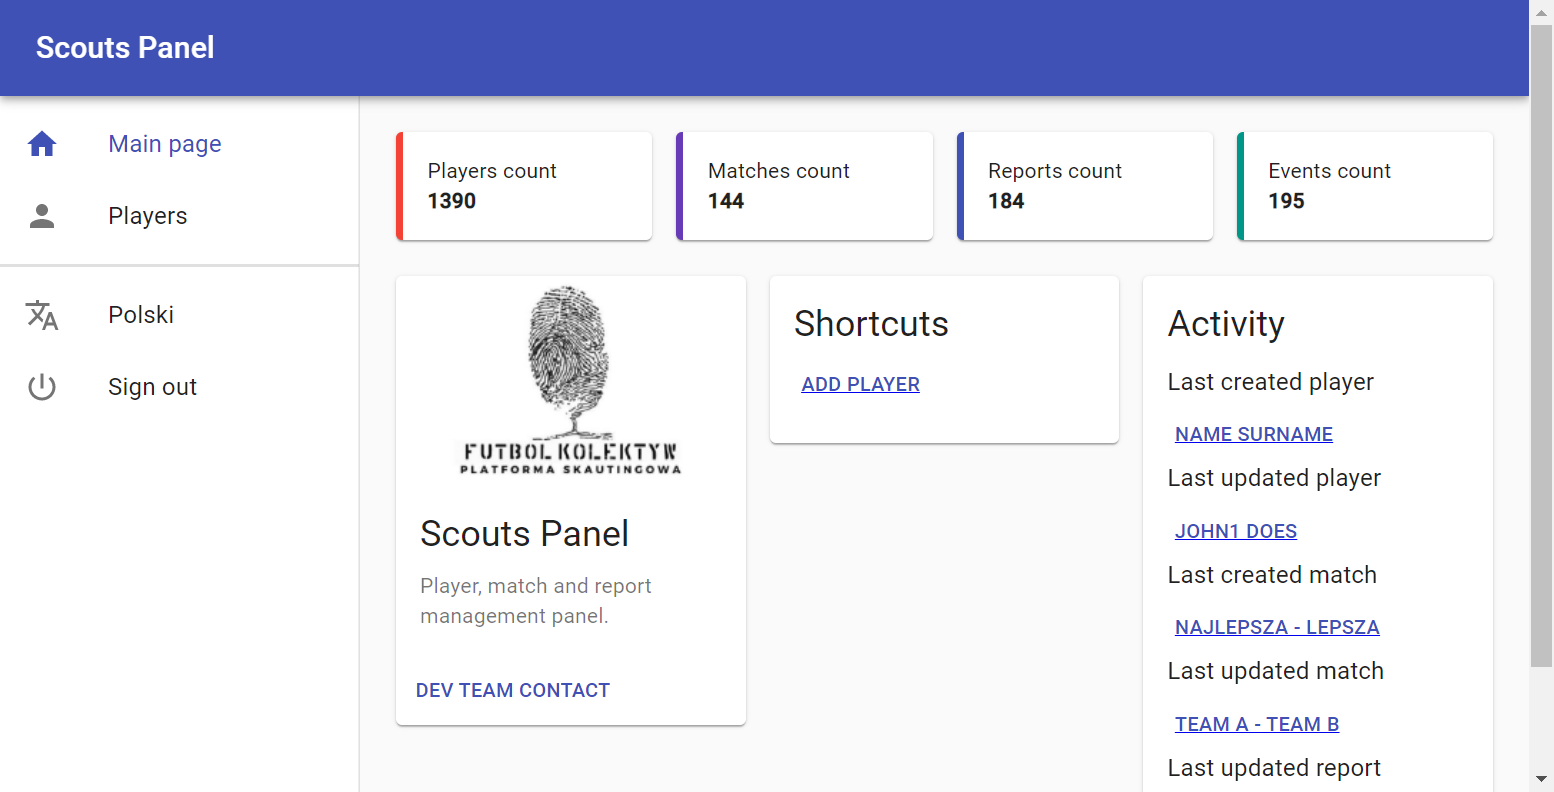
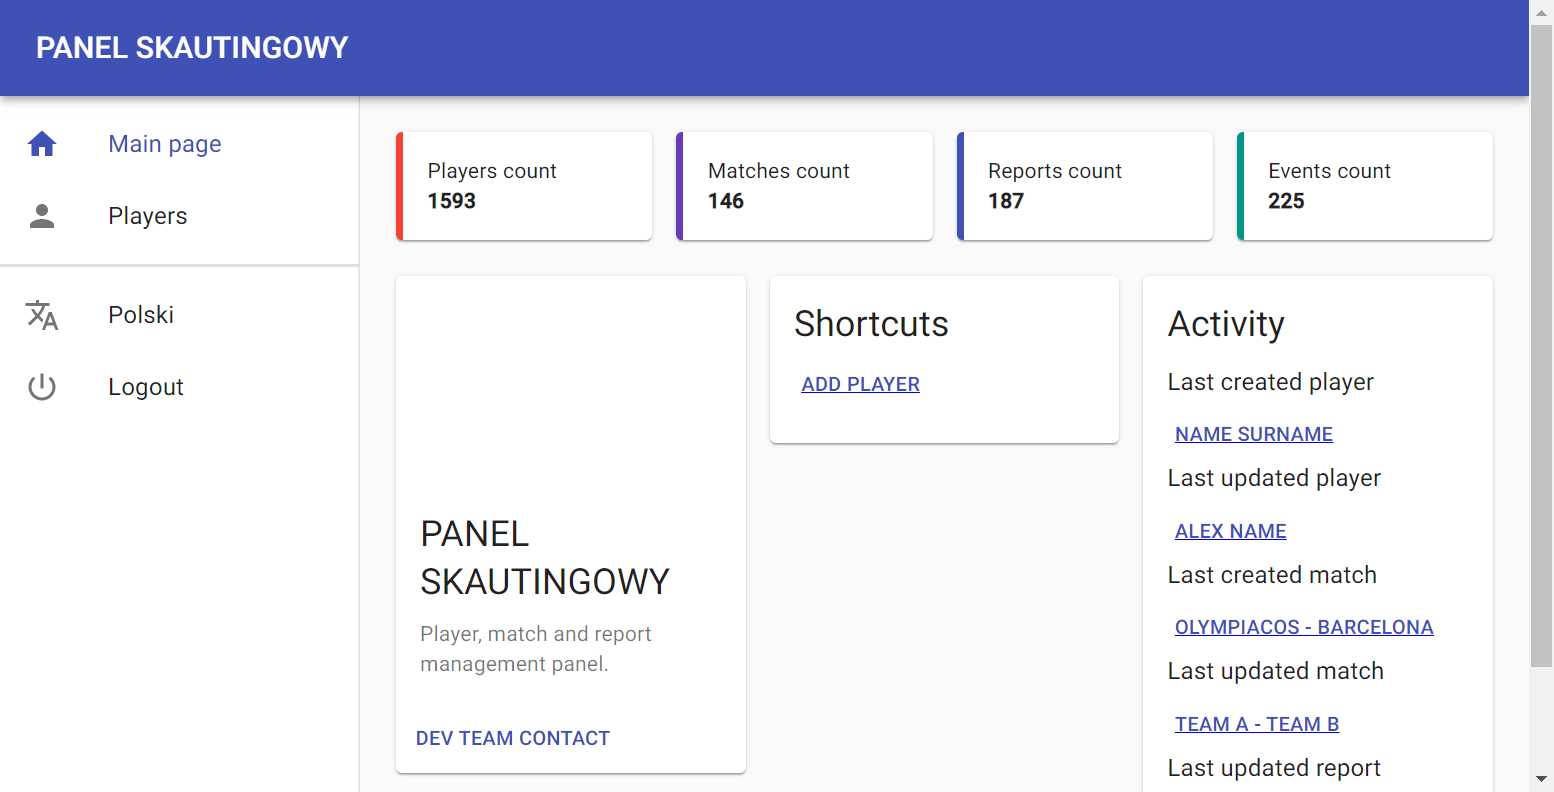
Minor changes
Minor changes to the code due to new website pass

diff --git a/log.html b/log.html
@@ -1803,25 +1803,25 @@ function stopPropagation(event) {
 window.output = {};
 </script>
 <script type="text/javascript">
-window.output["suite"] = [1,2,3,4,[],[1,0,58560],[],[[5,0,0,[],[1,404,12046],[[0,6,0,0,0,0,0,0,[1,405,3906],[[0,7,8,0,9,10,0,0,[1,405,3892],[[406,2,11]]],[0,12,8,0,13,14,0,0,[1,4298,12],[[4310,2,15]]]]],[0,16,0,0,0,0,0,0,[1,4311,270],[[0,17,8,0,18,19,0,0,[1,4311,269],[[4312,2,20]]]]],[0,21,0,0,0,0,0,0,[1,4581,176],[[0,17,8,0,18,22,0,0,[1,4581,176],[[4582,2,23]]]]],[0,24,0,0,0,0,0,0,[1,4758,75],[[0,25,8,0,26,27,0,0,[1,4759,74],[[4759,2,28]]]]],[0,29,0,0,0,0,0,0,[1,4834,4852],[[0,30,8,0,31,32,0,0,[1,4835,4497],[]],[0,12,8,0,13,33,0,0,[1,9332,15],[[9347,2,34]]],[0,35,8,0,36,37,0,0,[1,9348,338],[[9686,2,38]]]]],[2,39,8,0,40,0,0,0,[1,9688,2761],[]]]],[41,0,0,[],[1,12456,10949],[[0,6,0,0,0,0,0,0,[1,12457,3737],[[0,7,8,0,9,10,0,0,[1,12457,3722],[[12458,2,11]]],[0,12,8,0,13,14,0,0,[1,16179,15],[[16194,2,15]]]]],[0,16,0,0,0,0,0,0,[1,16195,289],[[0,17,8,0,18,19,0,0,[1,16195,288],[[16196,2,20]]]]],[0,21,0,0,0,0,0,0,[1,16485,170],[[0,17,8,0,18,22,0,0,[1,16485,170],[[16487,2,23]]]]],[0,24,0,0,0,0,0,0,[1,16656,65],[[0,25,8,0,26,27,0,0,[1,16656,65],[[16657,2,28]]]]],[0,42,0,0,0,0,0,0,[1,16722,4003],[[0,30,8,0,31,43,0,0,[1,16722,3888],[]],[0,25,8,0,26,44,0,0,[1,20610,115],[[20611,2,45]]]]],[0,46,0,0,0,0,0,0,[1,20726,191],[[0,30,8,0,31,47,0,0,[1,20727,40],[]],[0,12,8,0,13,14,0,0,[1,20767,6],[[20773,2,15]]],[0,35,8,0,36,48,0,0,[1,20773,144],[[20917,2,49]]]]],[2,39,8,0,40,0,0,0,[1,20918,2486],[]]]],[50,0,0,[],[1,23410,15019],[[0,6,0,0,0,0,0,0,[1,23411,4167],[[0,7,8,0,9,10,0,0,[1,23411,4121],[[23412,2,11]]],[0,12,8,0,13,14,0,0,[1,27533,45],[[27578,2,15]]]]],[0,16,0,0,0,0,0,0,[1,27580,271],[[0,17,8,0,18,19,0,0,[1,27580,271],[[27581,2,20]]]]],[0,21,0,0,0,0,0,0,[1,27854,207],[[0,17,8,0,18,22,0,0,[1,27855,205],[[27856,2,23]]]]],[0,24,0,0,0,0,0,0,[1,28061,85],[[0,25,8,0,26,27,0,0,[1,28062,84],[[28062,2,28]]]]],[0,51,0,0,0,0,0,0,[1,28146,4480],[[0,30,8,0,31,52,0,0,[1,28147,4416],[]],[0,25,8,0,26,53,0,0,[1,32563,62],[[32564,2,54]]]]],[0,55,0,0,0,0,0,0,[1,32626,1133],[[0,30,8,0,31,56,0,0,[1,32627,1126],[]],[0,12,8,0,13,57,0,0,[1,33754,5],[[33759,2,58]]]]],[0,59,0,0,0,0,0,0,[1,33760,230],[[0,17,8,0,18,60,0,0,[1,33760,230],[[33761,2,61]]]]],[0,62,0,0,0,0,0,0,[1,33991,218],[[0,17,8,0,18,63,0,0,[1,33992,217],[[33993,2,64]]]]],[0,65,0,0,0,0,0,0,[1,34210,171],[[0,17,8,0,18,66,0,0,[1,34210,171],[[34211,2,67]]]]],[0,68,0,0,0,0,0,0,[1,34382,196],[[0,17,8,0,18,69,0,0,[1,34382,196],[[34384,2,70]]]]],[0,71,0,0,0,0,0,0,[1,34579,114],[[0,25,8,0,26,72,0,0,[1,34580,112],[[34580,2,73]]]]],[0,74,0,0,0,0,0,0,[1,34693,1414],[[0,75,8,0,76,52,0,0,[1,34694,1031],[]],[0,77,8,0,78,79,0,0,[1,35725,50],[[35727,2,80]]],[0,35,8,0,36,81,0,0,[1,35775,332],[[36107,2,82]]]]],[2,39,8,0,40,0,0,0,[1,36109,2319],[]]]],[83,0,0,[],[1,38434,12775],[[0,6,0,0,0,0,0,0,[1,38435,3785],[[0,7,8,0,9,10,0,0,[1,38435,3773],[[38437,2,11]]],[0,12,8,0,13,14,0,0,[1,42208,12],[[42219,2,15]]]]],[0,16,0,0,0,0,0,0,[1,42222,259],[[0,17,8,0,18,19,0,0,[1,42224,257],[[42225,2,20]]]]],[0,21,0,0,0,0,0,0,[1,42481,151],[[0,17,8,0,18,22,0,0,[1,42482,149],[[42482,2,23]]]]],[0,24,0,0,0,0,0,0,[1,42632,77],[[0,25,8,0,26,27,0,0,[1,42633,75],[[42634,2,28]]]]],[0,84,0,0,0,0,0,0,[1,42710,4236],[[0,30,8,0,31,85,0,0,[1,42711,4099],[]],[0,25,8,0,26,86,0,0,[1,46811,134],[[46812,2,87]]]]],[0,88,0,0,0,0,0,0,[1,46946,466],[[0,77,8,0,78,89,0,0,[1,46947,83],[[46948,2,90]]],[0,35,8,0,36,91,0,0,[1,47030,382],[[47412,2,92]]]]],[2,39,8,0,40,0,0,0,[1,47413,3795],[]]]],[93,0,0,[],[1,51211,7347],[[0,6,0,0,0,0,0,0,[1,51212,3946],[[0,7,8,0,9,10,0,0,[1,51212,3936],[[51213,2,11]]],[0,12,8,0,13,14,0,0,[1,55148,10],[[55158,2,15]]]]],[0,94,0,0,0,0,0,0,[1,55158,585],[[0,25,8,0,26,95,0,0,[1,55159,216],[[55159,2,96]]],[0,30,8,0,31,97,0,0,[1,55375,163],[]],[0,25,8,0,26,98,0,0,[1,55539,204],[[55540,2,99]]]]],[0,100,0,0,0,0,0,0,[1,55745,598],[[0,30,8,0,31,47,0,0,[1,55745,53],[]],[0,77,8,0,78,101,0,0,[1,55798,55],[[55801,2,102]]],[0,35,8,0,36,103,0,0,[1,55854,488],[[56342,2,104]]]]],[2,39,8,0,40,0,0,0,[1,56344,2213],[]]]]],[],[5,5,0,0]];
+window.output["suite"] = [1,2,3,4,[],[1,0,75109],[],[[5,0,0,[],[1,486,16482],[[0,6,0,0,0,0,0,0,[1,487,5265],[[0,7,8,0,9,10,0,0,[1,487,5257],[[488,2,11]]],[0,12,8,0,13,14,0,0,[1,5744,8],[[5752,2,15]]]]],[0,16,0,0,0,0,0,0,[1,5753,278],[[0,17,8,0,18,19,0,0,[1,5753,278],[[5755,2,20]]]]],[0,21,0,0,0,0,0,0,[1,6040,223],[[0,17,8,0,18,22,0,0,[1,6041,222],[[6043,2,23]]]]],[0,24,0,0,0,0,0,0,[1,6264,77],[[0,25,8,0,26,27,0,0,[1,6267,74],[[6268,2,28]]]]],[0,29,0,0,0,0,0,0,[1,6342,6732],[[0,30,8,0,31,32,0,0,[1,6342,6502],[]],[0,12,8,0,13,33,0,0,[1,12844,10],[[12854,2,34]]],[0,35,8,0,36,37,0,0,[1,12855,218],[[13073,2,38]]]]],[2,39,8,0,40,0,0,0,[1,13074,3889],[]]]],[41,0,0,[],[1,16975,16170],[[0,6,0,0,0,0,0,0,[1,16976,5013],[[0,7,8,0,9,10,0,0,[1,16976,5002],[[16977,2,11]]],[0,12,8,0,13,14,0,0,[1,21978,10],[[21988,2,15]]]]],[0,16,0,0,0,0,0,0,[1,21989,494],[[0,17,8,0,18,19,0,0,[1,21990,492],[[21991,2,20]]]]],[0,21,0,0,0,0,0,0,[1,22484,483],[[0,17,8,0,18,22,0,0,[1,22484,482],[[22486,2,23]]]]],[0,24,0,0,0,0,0,0,[1,22968,96],[[0,25,8,0,26,27,0,0,[1,22968,96],[[22970,2,28]]]]],[0,42,0,0,0,0,0,0,[1,23077,5808],[[0,30,8,0,31,43,0,0,[1,23078,5682],[]],[0,25,8,0,26,44,0,0,[1,28760,124],[[28761,2,45]]]]],[0,46,0,0,0,0,0,0,[1,28885,283],[[0,30,8,0,31,47,0,0,[1,28886,34],[]],[0,12,8,0,13,14,0,0,[1,28920,6],[[28926,2,15]]],[0,35,8,0,36,48,0,0,[1,28927,240],[[29167,2,49]]]]],[2,39,8,0,40,0,0,0,[1,29169,3975],[]]]],[50,0,0,[],[1,33149,17905],[[0,6,0,0,0,0,0,0,[1,33151,4666],[[0,7,8,0,9,10,0,0,[1,33151,4657],[[33152,2,11]]],[0,12,8,0,13,14,0,0,[1,37808,9],[[37817,2,15]]]]],[0,16,0,0,0,0,0,0,[1,37819,329],[[0,17,8,0,18,19,0,0,[1,37820,328],[[37821,2,20]]]]],[0,21,0,0,0,0,0,0,[1,38154,170],[[0,17,8,0,18,22,0,0,[1,38155,169],[[38157,2,23]]]]],[0,24,0,0,0,0,0,0,[1,38325,96],[[0,25,8,0,26,27,0,0,[1,38325,96],[[38326,2,28]]]]],[0,51,0,0,0,0,0,0,[1,38424,5335],[[0,30,8,0,31,52,0,0,[1,38425,5271],[]],[0,25,8,0,26,53,0,0,[1,43696,63],[[43697,2,54]]]]],[0,55,0,0,0,0,0,0,[1,43760,1014],[[0,30,8,0,31,56,0,0,[1,43760,999],[]],[0,12,8,0,13,57,0,0,[1,44759,14],[[44773,2,58]]]]],[0,59,0,0,0,0,0,0,[1,44774,181],[[0,17,8,0,18,60,0,0,[1,44775,180],[[44776,2,61]]]]],[0,62,0,0,0,0,0,0,[1,44956,449],[[0,17,8,0,18,63,0,0,[1,44957,448],[[44958,2,64]]]]],[0,65,0,0,0,0,0,0,[1,45406,504],[[0,17,8,0,18,66,0,0,[1,45407,502],[[45408,2,67]]]]],[0,68,0,0,0,0,0,0,[1,45911,347],[[0,17,8,0,18,69,0,0,[1,45911,347],[[45913,2,70]]]]],[0,71,0,0,0,0,0,0,[1,46261,278],[[0,17,8,0,18,72,0,0,[1,46263,276],[[46264,2,73]]]]],[0,74,0,0,0,0,0,0,[1,46542,301],[[0,25,8,0,26,75,0,0,[1,46542,300],[[46543,2,76]]]]],[0,77,0,0,0,0,0,0,[1,46844,1729],[[0,78,8,0,79,52,0,0,[1,46844,1300],[]],[0,80,8,0,81,82,0,0,[1,48144,64],[[48148,2,83]]],[0,35,8,0,36,84,0,0,[1,48209,364],[[48573,2,85]]]]],[2,39,8,0,40,0,0,0,[1,48575,2478],[]]]],[86,0,0,[],[1,51056,13942],[[0,6,0,0,0,0,0,0,[1,51056,5260],[[0,7,8,0,9,10,0,0,[1,51057,5250],[[51057,2,11]]],[0,12,8,0,13,14,0,0,[1,56307,8],[[56315,2,15]]]]],[0,16,0,0,0,0,0,0,[1,56316,312],[[0,17,8,0,18,19,0,0,[1,56317,310],[[56317,2,20]]]]],[0,21,0,0,0,0,0,0,[1,56631,203],[[0,17,8,0,18,22,0,0,[1,56632,202],[[56634,2,23]]]]],[0,24,0,0,0,0,0,0,[1,56835,71],[[0,25,8,0,26,27,0,0,[1,56835,71],[[56836,2,28]]]]],[0,87,0,0,0,0,0,0,[1,56907,5144],[[0,30,8,0,31,88,0,0,[1,56907,4942],[]],[0,25,8,0,26,89,0,0,[1,61849,201],[[61852,2,90]]]]],[0,91,0,0,0,0,0,0,[1,62058,458],[[0,80,8,0,81,92,0,0,[1,62059,178],[[62064,2,93]]],[0,35,8,0,36,94,0,0,[1,62237,279],[[62516,2,95]]]]],[2,39,8,0,40,0,0,0,[1,62517,2480],[]]]],[96,0,0,[],[1,65000,9958],[[0,6,0,0,0,0,0,0,[1,65001,5226],[[0,7,8,0,9,10,0,0,[1,65002,5218],[[65002,2,11]]],[0,12,8,0,13,14,0,0,[1,70220,7],[[70226,2,15]]]]],[0,97,0,0,0,0,0,0,[1,70227,513],[[0,25,8,0,26,98,0,0,[1,70228,115],[[70229,2,99]]],[0,30,8,0,31,100,0,0,[1,70343,130],[]],[0,25,8,0,26,101,0,0,[1,70473,266],[[70475,2,102]]]]],[0,103,0,0,0,0,0,0,[1,70743,607],[[0,30,8,0,31,47,0,0,[1,70744,63],[]],[0,80,8,0,81,104,0,0,[1,70808,94],[[70810,2,105]]],[0,35,8,0,36,106,0,0,[1,70902,448],[[71350,2,107]]]]],[2,39,8,0,40,0,0,0,[1,71351,3569],[]]]]],[],[5,5,0,0]];
 </script>
 <script type="text/javascript">
 window.output["strings"] = [];
 </script>
 <script type="text/javascript">
-window.output["strings"] = window.output["strings"].concat(["*","*Test Login Rf","*C:\\Users\\Olga\\Documents\\GitHub\\my_robotframework\\test_login_rf.robot","*test_login_rf.robot","*<p>Suite description #automated tests for scout website\x3c/p>","*Login to the system","*Open login page","*Open Browser","*SeleniumLibrary","*<p>Opens a new browser instance to the optional <code>url\x3c/code>.\x3c/p>","*${LOGIN URL}, ${BROWSER}","*Opening browser 'Chrome' to base url '<a href=\"https://scouts-test.futbolkolektyw.pl/login\">https://scouts-test.futbolkolektyw.pl/login\x3c/a>'.","*Title Should Be","*<p>Verifies that the current page title equals <code>title\x3c/code>.\x3c/p>","*Scouts panel - sign in","*Page title is 'Scouts panel - sign in'.","*Type in email","*Input Text","*<p>Types the given <code>text\x3c/code> into the text field identified by <code>locator\x3c/code>.\x3c/p>","*${EMAILINPUT}, user07@getnada.com","*Typing text 'user07@getnada.com' into text field 'xpath=//input[@id='login']'.","*Type in password","*${PASSWORDINPUT}, Test-1234","*Typing text 'Test-1234' into text field 'xpath=//*[@id='password']'.","*Click on the Sign In button","*Click Element","*<p>Click the element identified by <code>locator\x3c/code>.\x3c/p>","*xpath=//*[text()= 'Sign in']","*Clicking element 'xpath=//*[text()= 'Sign in']'.","*Assert dashboard","*Wait Until Element Is Visible","*<p>Waits until the element <code>locator\x3c/code> is visible.\x3c/p>","*(//h6)[1], 10","*Scouts panel","*Page title is 'Scouts panel'.","*Capture Page Screenshot","*<p>Takes a screenshot of the current page and embeds it into a log file.\x3c/p>","*alert_dashboard.png","*\x3c/td>\x3c/tr><tr><td colspan=\"3\"><a href=\"alert_dashboard.png\"><img src=\"alert_dashboard.png\" width=\"800px\">\x3c/a>","*Close Browser","*<p>Closes the current browser.\x3c/p>","*Log out of the system","*Click on the Log out","*${SIGNOUT}, 20","*${SIGNOUT}","*Clicking element 'xpath=//*[contains(@d, 'M13')]/../../..'.","*Assert loginpage","*${PAGELOGO}","*alert_loginpage.png","*\x3c/td>\x3c/tr><tr><td colspan=\"3\"><a href=\"alert_loginpage.png\"><img src=\"alert_loginpage.png\" width=\"800px\">\x3c/a>","*Add new player","*Click on Add player","*${ADDPLAYER}, 20","*${ADDPLAYER}","*Clicking element 'xpath=//*[text()='Add player']/../..'.","*Assert addPlayerPage","*${NAMEINPUT}","*Add player","*Page title is 'Add player'.","*Type in name","*${NAMEINPUT}, Name","*Typing text 'Name' into text field 'xpath=//*[@name ='name']'.","*Type in surname","*${SURNAMEINPUT}, Surname","*Typing text 'Surname' into text field 'xpath=//*[@name ='surname']'.","*Type in age","*${AGEINPUT}, 07/07/2007","*Typing text '07/07/2007' into text field 'xpath=//*[@name ='age']'.","*Type in Main position","*${POSITIONINPUT}, first","*Typing text 'first' into text field 'xpath=//*[@name ='mainPosition']'.","*Click on the Submit button","*${SUBMITBUTTON}","*Clicking element 'xpath=//*[@type='submit']'.","*Assert addplayer","*Wait Until Element Is Not Visible","*<p>Waits until the element <code>locator\x3c/code> is not visible.\x3c/p>","*Element Text Should Be","*<p>Verifies that element <code>locator\x3c/code> contains exact the text <code>expected\x3c/code>.\x3c/p>","*//span[text()='Name Surname'], Name Surname","*Verifying element '//span[text()='Name Surname']' contains exact text 'Name Surname'.","*alert_addplayer.png","*\x3c/td>\x3c/tr><tr><td colspan=\"3\"><a href=\"alert_addplayer.png\"><img src=\"alert_addplayer.png\" width=\"800px\">\x3c/a>","*Change language via dashboard","*Click on the language","*${DASHBOARDLANGUAGE}, 10","*${DASHBOARDLANGUAGE}","*Clicking element 'xpath=//*[contains(@d, 'M12.')]/../../..'.","*Assert dashboardlang","*${SIGNOUT}, Wyloguj","*Verifying element 'xpath=//*[contains(@d, 'M13')]/../../..' contains exact text 'Wyloguj'.","*alert_dashboardlang.png","*\x3c/td>\x3c/tr><tr><td colspan=\"3\"><a href=\"alert_dashboardlang.png\"><img src=\"alert_dashboardlang.png\" width=\"800px\">\x3c/a>","*Change language via dropdown","*Select language","*${DROPDOWNLANGUAGE}","*Clicking element 'xpath=//*[@aria-haspopup='listbox']'.","*${LISTLANGUAGE}","*${DROPDOWNLANGCHOOSE}","*Clicking element 'xpath=//*[@data-value = 'pl']'.","*Assert dropdownlang","*${WRONGPASSTEXT}, Przypomnij hasło","*Verifying element 'xpath=//a' contains exact text 'Przypomnij hasło'.","*alert_dropdownlang.png","*\x3c/td>\x3c/tr><tr><td colspan=\"3\"><a href=\"alert_dropdownlang.png\"><img src=\"alert_dropdownlang.png\" width=\"800px\">\x3c/a>"]);
+window.output["strings"] = window.output["strings"].concat(["*","*Test Login Rf","*C:\\Users\\Olga\\Documents\\GitHub\\my_robotframework\\test_login_rf.robot","*test_login_rf.robot","*<p>Suite description #automated tests for scout website\x3c/p>","*Login to the system","*Open login page","*Open Browser","*SeleniumLibrary","*<p>Opens a new browser instance to the optional <code>url\x3c/code>.\x3c/p>","*${LOGIN URL}, ${BROWSER}","*Opening browser 'Chrome' to base url '<a href=\"https://scouts.futbolkolektyw.pl/en/\">https://scouts.futbolkolektyw.pl/en/\x3c/a>'.","*Title Should Be","*<p>Verifies that the current page title equals <code>title\x3c/code>.\x3c/p>","*Scouts panel - sign in","*Page title is 'Scouts panel - sign in'.","*Type in email","*Input Text","*<p>Types the given <code>text\x3c/code> into the text field identified by <code>locator\x3c/code>.\x3c/p>","*${EMAILINPUT}, user07@getnada.com","*Typing text 'user07@getnada.com' into text field 'xpath=//input[@id='login']'.","*Type in password","*${PASSWORDINPUT}, Test-1234","*Typing text 'Test-1234' into text field 'xpath=//*[@id='password']'.","*Click on the Sign In button","*Click Element","*<p>Click the element identified by <code>locator\x3c/code>.\x3c/p>","*xpath=//*[text()= 'Sign in']","*Clicking element 'xpath=//*[text()= 'Sign in']'.","*Assert dashboard","*Wait Until Element Is Visible","*<p>Waits until the element <code>locator\x3c/code> is visible.\x3c/p>","*(//h6)[1], 10","*PANEL SKAUTINGOWY","*Page title is 'PANEL SKAUTINGOWY'.","*Capture Page Screenshot","*<p>Takes a screenshot of the current page and embeds it into a log file.\x3c/p>","*alert_dashboard.png","*\x3c/td>\x3c/tr><tr><td colspan=\"3\"><a href=\"alert_dashboard.png\"><img src=\"alert_dashboard.png\" width=\"800px\">\x3c/a>","*Close Browser","*<p>Closes the current browser.\x3c/p>","*Log out of the system","*Click on the Log out","*${SIGNOUT}, 30","*${SIGNOUT}","*Clicking element 'xpath=//*[contains(@d, 'M13')]/../../..'.","*Assert loginpage","*${PAGELOGO}","*alert_loginpage.png","*\x3c/td>\x3c/tr><tr><td colspan=\"3\"><a href=\"alert_loginpage.png\"><img src=\"alert_loginpage.png\" width=\"800px\">\x3c/a>","*Add new player","*Click on Add player","*${ADDPLAYER}, 40","*${ADDPLAYER}","*Clicking element 'xpath=//*[text()='Add player']/../..'.","*Assert addPlayerPage","*${NAMEINPUT}","*Add player","*Page title is 'Add player'.","*Type in name","*${NAMEINPUT}, Name","*Typing text 'Name' into text field 'xpath=//*[@name ='name']'.","*Type in surname","*${SURNAMEINPUT}, Surname","*Typing text 'Surname' into text field 'xpath=//*[@name ='surname']'.","*Type in age","*${AGEINPUT}, 07/07/2007","*Typing text '07/07/2007' into text field 'xpath=//*[@name ='age']'.","*Type in Main position","*${POSITIONINPUT}, first","*Typing text 'first' into text field 'xpath=//*[@name ='mainPosition']'.","*Type in Previous club","*${PREVIOUSCLUB}, none","*Typing text 'none' into text field 'xpath=//*[@name ='exClub']'.","*Click on the Submit button","*${SUBMITBUTTON}","*Clicking element 'xpath=//*[@type='submit']'.","*Assert addplayer","*Wait Until Element Is Not Visible","*<p>Waits until the element <code>locator\x3c/code> is not visible.\x3c/p>","*Element Text Should Be","*<p>Verifies that element <code>locator\x3c/code> contains exact the text <code>expected\x3c/code>.\x3c/p>","*//span[text()='Name Surname'], Name Surname","*Verifying element '//span[text()='Name Surname']' contains exact text 'Name Surname'.","*alert_addplayer.png","*\x3c/td>\x3c/tr><tr><td colspan=\"3\"><a href=\"alert_addplayer.png\"><img src=\"alert_addplayer.png\" width=\"800px\">\x3c/a>","*Change language via dashboard","*Click on the language","*${DASHBOARDLANGUAGE}, 10","*${DASHBOARDLANGUAGE}","*Clicking element 'xpath=//*[contains(@d, 'M12.')]/../../..'.","*Assert dashboardlang","*${SIGNOUT}, Wyloguj się","*Verifying element 'xpath=//*[contains(@d, 'M13')]/../../..' contains exact text 'Wyloguj się'.","*alert_dashboardlang.png","*\x3c/td>\x3c/tr><tr><td colspan=\"3\"><a href=\"alert_dashboardlang.png\"><img src=\"alert_dashboardlang.png\" width=\"800px\">\x3c/a>","*Change language via dropdown","*Select language","*${DROPDOWNLANGUAGE}","*Clicking element 'xpath=//*[@aria-haspopup='listbox']'.","*${LISTLANGUAGE}","*${DROPDOWNLANGCHOOSE}","*Clicking element 'xpath=//*[@data-value = 'pl']'.","*Assert dropdownlang","*${WRONGPASSTEXT}, Przypomnij hasło","*Verifying element 'xpath=//a' contains exact text 'Przypomnij hasło'.","*alert_dropdownlang.png","*\x3c/td>\x3c/tr><tr><td colspan=\"3\"><a href=\"alert_dropdownlang.png\"><img src=\"alert_dropdownlang.png\" width=\"800px\">\x3c/a>"]);
 </script>
 <script type="text/javascript">
-window.output["stats"] = [[{"elapsed":"00:00:58","fail":0,"label":"All Tests","pass":5,"skip":0}],[],[{"elapsed":"00:00:59","fail":0,"id":"s1","label":"Test Login Rf","name":"Test Login Rf","pass":5,"skip":0}]];
+window.output["stats"] = [[{"elapsed":"00:01:14","fail":0,"label":"All Tests","pass":5,"skip":0}],[],[{"elapsed":"00:01:15","fail":0,"id":"s1","label":"Test Login Rf","name":"Test Login Rf","pass":5,"skip":0}]];
 </script>
 <script type="text/javascript">
 window.output["errors"] = [];
 </script>
 <script type="text/javascript">
-window.output["baseMillis"] = 1669674861840;
+window.output["baseMillis"] = 1670274495517;
 </script>
 <script type="text/javascript">
-window.output["generated"] = 58589;
+window.output["generated"] = 77159;
 </script>
 <script type="text/javascript">
 window.output["expand_keywords"] = null;

diff --git a/report.html b/report.html
@@ -1629,7 +1629,7 @@ storage = function () {
 window.output = {};
 </script>
 <script type="text/javascript">
-window.output["suite"] = [1,2,3,4,[],[1,0,58560],[],[[5,0,0,[],[1,404,12046],[]],[6,0,0,[],[1,12456,10949],[]],[7,0,0,[],[1,23410,15019],[]],[8,0,0,[],[1,38434,12775],[]],[9,0,0,[],[1,51211,7347],[]]],[],[5,5,0,0]];
+window.output["suite"] = [1,2,3,4,[],[1,0,75109],[],[[5,0,0,[],[1,486,16482],[]],[6,0,0,[],[1,16975,16170],[]],[7,0,0,[],[1,33149,17905],[]],[8,0,0,[],[1,51056,13942],[]],[9,0,0,[],[1,65000,9958],[]]],[],[5,5,0,0]];
 </script>
 <script type="text/javascript">
 window.output["strings"] = [];
@@ -1638,13 +1638,13 @@ window.output["strings"] = [];
 window.output["strings"] = window.output["strings"].concat(["*","*Test Login Rf","*C:\\Users\\Olga\\Documents\\GitHub\\my_robotframework\\test_login_rf.robot","*test_login_rf.robot","*<p>Suite description #automated tests for scout website\x3c/p>","*Login to the system","*Log out of the system","*Add new player","*Change language via dashboard","*Change language via dropdown"]);
 </script>
 <script type="text/javascript">
-window.output["stats"] = [[{"elapsed":"00:00:58","fail":0,"label":"All Tests","pass":5,"skip":0}],[],[{"elapsed":"00:00:59","fail":0,"id":"s1","label":"Test Login Rf","name":"Test Login Rf","pass":5,"skip":0}]];
+window.output["stats"] = [[{"elapsed":"00:01:14","fail":0,"label":"All Tests","pass":5,"skip":0}],[],[{"elapsed":"00:01:15","fail":0,"id":"s1","label":"Test Login Rf","name":"Test Login Rf","pass":5,"skip":0}]];
 </script>
 <script type="text/javascript">
-window.output["baseMillis"] = 1669674861840;
+window.output["baseMillis"] = 1670274495517;
 </script>
 <script type="text/javascript">
-window.output["generated"] = 58589;
+window.output["generated"] = 77159;
 </script>
 <script type="text/javascript">
 window.output["expand_keywords"] = null;
